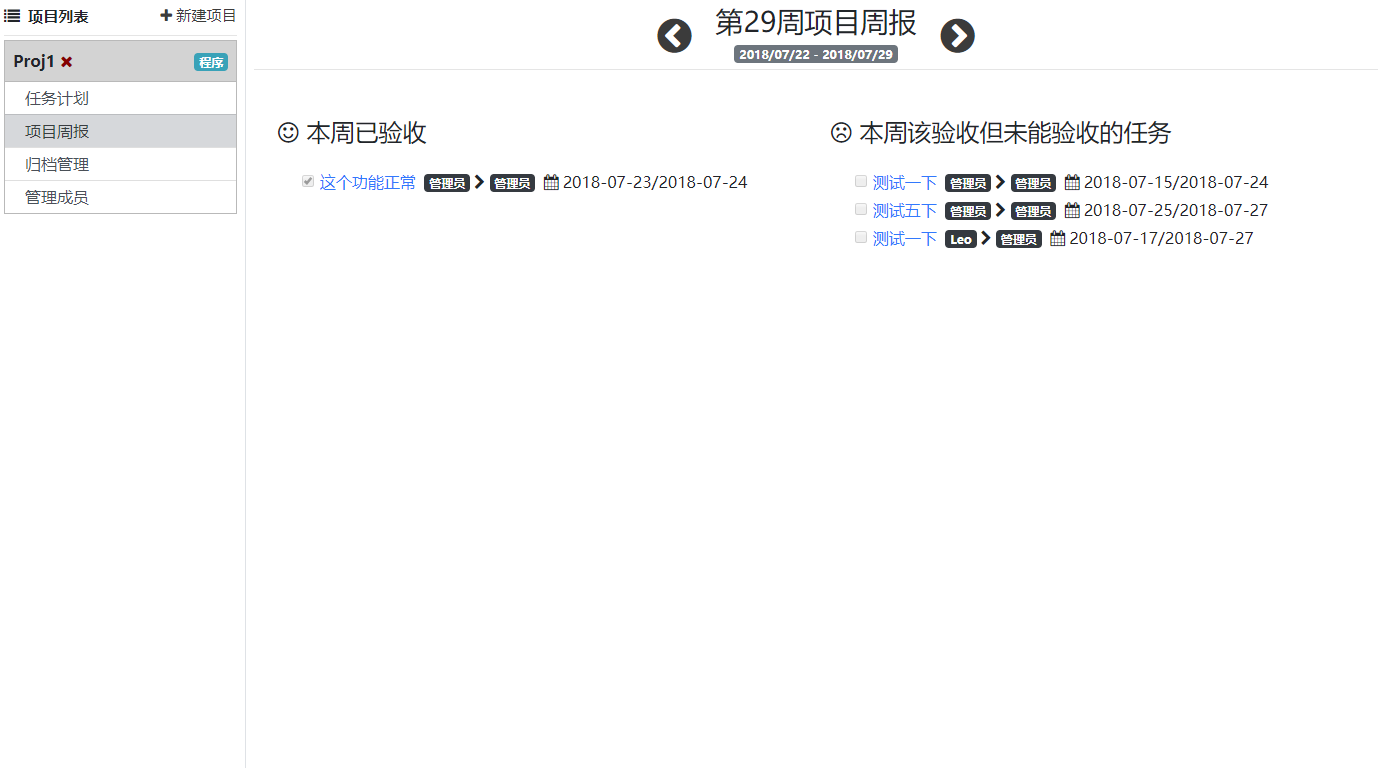
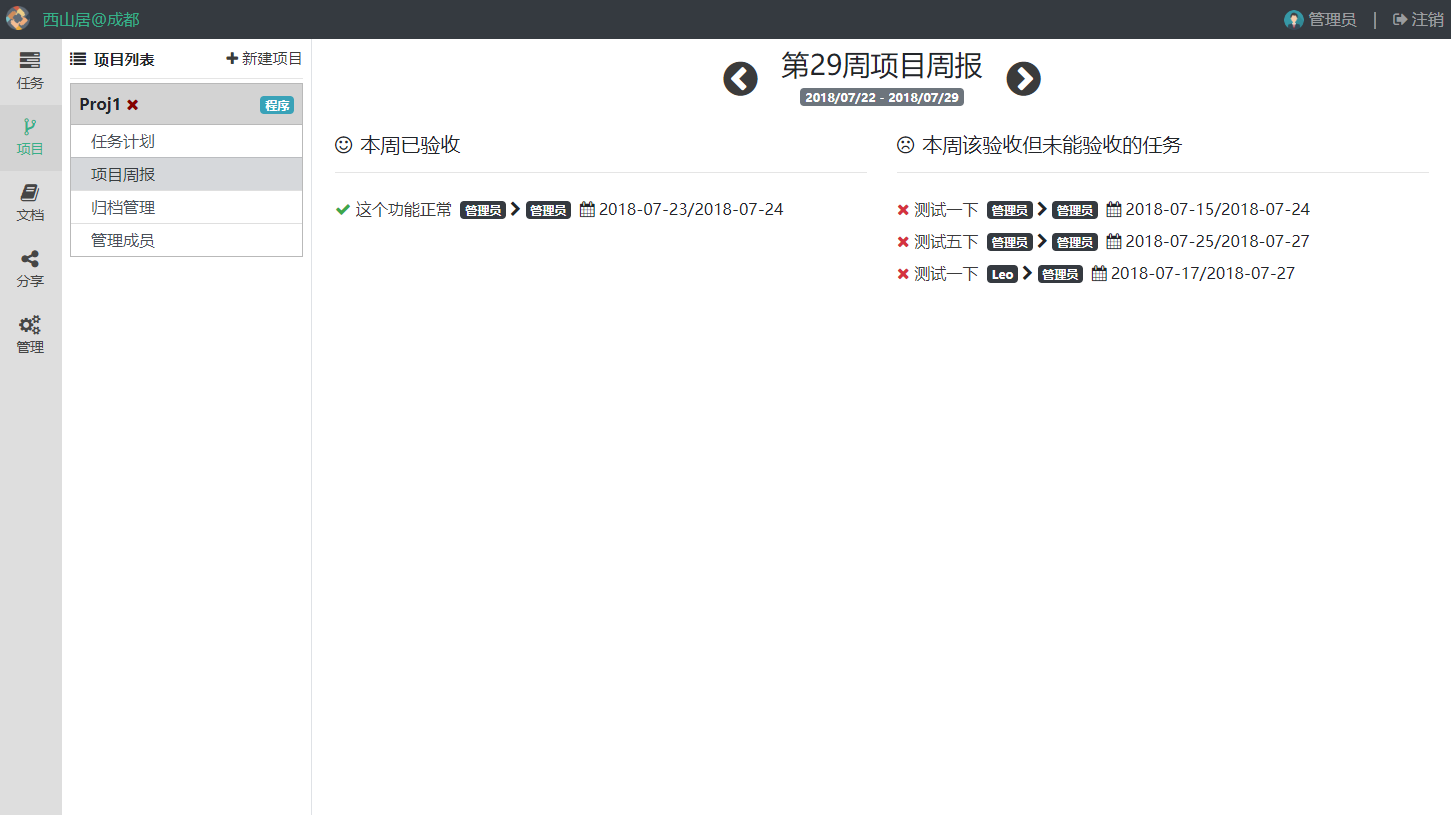
change style for project reports

Changed region(s): [[0.0, 0.0, 1.0, 1.0], [0.6236, 0.2188, 0.9355, 0.375]]

diff --git a/scripts/view/dashboard/projects/reports.html b/scripts/view/dashboard/projects/reports.html
@@ -7,17 +7,17 @@
         </div>
         <a href="#" class="btn-link" onclick="return goto_week('{{report.week_offset + 1}}');" style="font-size: 2.5em"><i class="fa fa-chevron-circle-right"></i></a>
     </div>
-    <hr class="mx-0 my-1">
 
-    <div class="container mt-4 p-4">
+    <div class="container mt-4">
         <div class="row">
             <div class="col-md-6">
-                <h4><i class="fa fa-smile-o mr-2"></i>本周已验收</h4>
-                <ul class="mt-4 px-4" style="list-style-type: none">
+                <h5><i class="fa fa-smile-o mr-2"></i>本周已验收</h5>
+                <hr>
+                <ul class="mt-4 px-0" style="list-style-type: none">
                     {% for _, task in ipairs(report.archived) do %}
-                    <li class="mb-1">
-                        <input type="checkbox" checked disabled>
-                        <a href="#" onclick="return open_task('{{task.id}}');">{{task.name}}</a>
+                    <li class="my-2">
+                        <i class="fa fa-check text-success"></i>
+                        <a href="#" class="task-link" onclick="return open_task('{{task.id}}');">{{task.name}}</a>
                         <span class="badge badge-dark text-white ml-1">{{task.creator_name}}</span><i class="fa fa-chevron-right mx-1"></i><span class="badge badge-dark text-white">{{task.assigned_name}}</span>
                         <i class="fa fa-calendar mx-1"></i>{{tostring(task.start_time) .. '/' .. tostring(task.end_time)}}
                     </li>
@@ -25,12 +25,13 @@
                 </ul>
             </div>
             <div class="col-md-6">
-                <h4><i class="fa fa-frown-o mr-2"></i>本周该验收但未能验收的任务</h4>
-                <ul class="mt-4 px-4" style="list-style-type: none">
+                <h5><i class="fa fa-frown-o mr-2"></i>本周该验收但未能验收的任务</h5>
+                <hr>
+                <ul class="mt-4 px-0" style="list-style-type: none">
                     {% for _, task in ipairs(report.not_archived) do %}
-                    <li class="mb-1">
-                        <input type="checkbox" disabled>
-                        <a href="#" onclick="return open_task('{{task.id}}');">{{task.name}}</a>
+                    <li class="my-2">
+                        <i class="fa fa-close text-danger"></i>
+                        <a href="#" class="task-link" onclick="return open_task('{{task.id}}');">{{task.name}}</a>
                         <span class="badge badge-dark text-white ml-1">{{task.creator_name}}</span><i class="fa fa-chevron-right mx-1"></i><span class="badge badge-dark text-white">{{task.assigned_name}}</span>
                         <i class="fa fa-calendar mx-1"></i>{{tostring(task.start_time) .. '/' .. tostring(task.end_time)}}
                     </li>

diff --git a/scripts/view/dashboard/tasks/mode_normal.html b/scripts/view/dashboard/tasks/mode_normal.html
@@ -12,7 +12,7 @@
                         <span class="d-inline-block text-truncate mw-100">                            
                             <span class="{{weights[info.weight].color}}">【{{weights[info.weight].title}}】</span>
                             <span class="text-muted">#{{info.id}}</span>
-                            <a href="#" onclick="return open_task('{{info.id}}');">{{info.name}}</a>
+                            <a href="#" class="task-link" onclick="return open_task('{{info.id}}');">{{info.name}}</a>
                         </span><br>
                         {% if #info.tags > 0 then %}
                         <span class="d-inline-block text-truncate mw-100">
@@ -48,7 +48,7 @@
                         <span class="d-inline-block text-truncate mw-100">                            
                             <span class="{{weights[info.weight].color}}">【{{weights[info.weight].title}}】</span>
                             <span class="text-muted">#{{info.id}}</span>
-                            <a href="#" onclick="return open_task('{{info.id}}');">{{info.name}}</a>
+                            <a href="#" class="task-link" onclick="return open_task('{{info.id}}');">{{info.name}}</a>
                         </span><br>
                         {% if #info.tags > 0 then %}
                         <span class="d-inline-block text-truncate mw-100">
@@ -84,7 +84,7 @@
                         <span class="d-inline-block text-truncate mw-100">                            
                             <span class="{{weights[info.weight].color}}">【{{weights[info.weight].title}}】</span>
                             <span class="text-muted">#{{info.id}}</span>
-                            <a href="#" onclick="return open_task('{{info.id}}');">{{info.name}}</a>
+                            <a href="#" class="task-link" onclick="return open_task('{{info.id}}');">{{info.name}}</a>
                         </span><br>
                         {% if #info.tags > 0 then %}
                         <span class="d-inline-block text-truncate mw-100">
@@ -120,7 +120,7 @@
                         <span class="d-inline-block text-truncate mw-100">                            
                             <span class="{{weights[info.weight].color}}">【{{weights[info.weight].title}}】</span>
                             <span class="text-muted">#{{info.id}}</span>
-                            <a href="#" onclick="return open_task('{{info.id}}');">{{info.name}}</a>
+                            <a href="#" class="task-link" onclick="return open_task('{{info.id}}');">{{info.name}}</a>
                         </span><br>
                         {% if #info.tags > 0 then %}
                         <span class="d-inline-block text-truncate mw-100">

diff --git a/www/css/site.css b/www/css/site.css
@@ -151,6 +151,17 @@
     text-decoration: none;
 }
 
+.task-link {
+    cursor: pointer;
+    color: rgb(59, 59, 59);
+}
+
+.task-link:hover {
+    cursor: pointer;
+    color: #10af88;
+    text-decoration: none;
+}
+
 /* Profile panel */
 .profile-pane {
     position: absolute;
